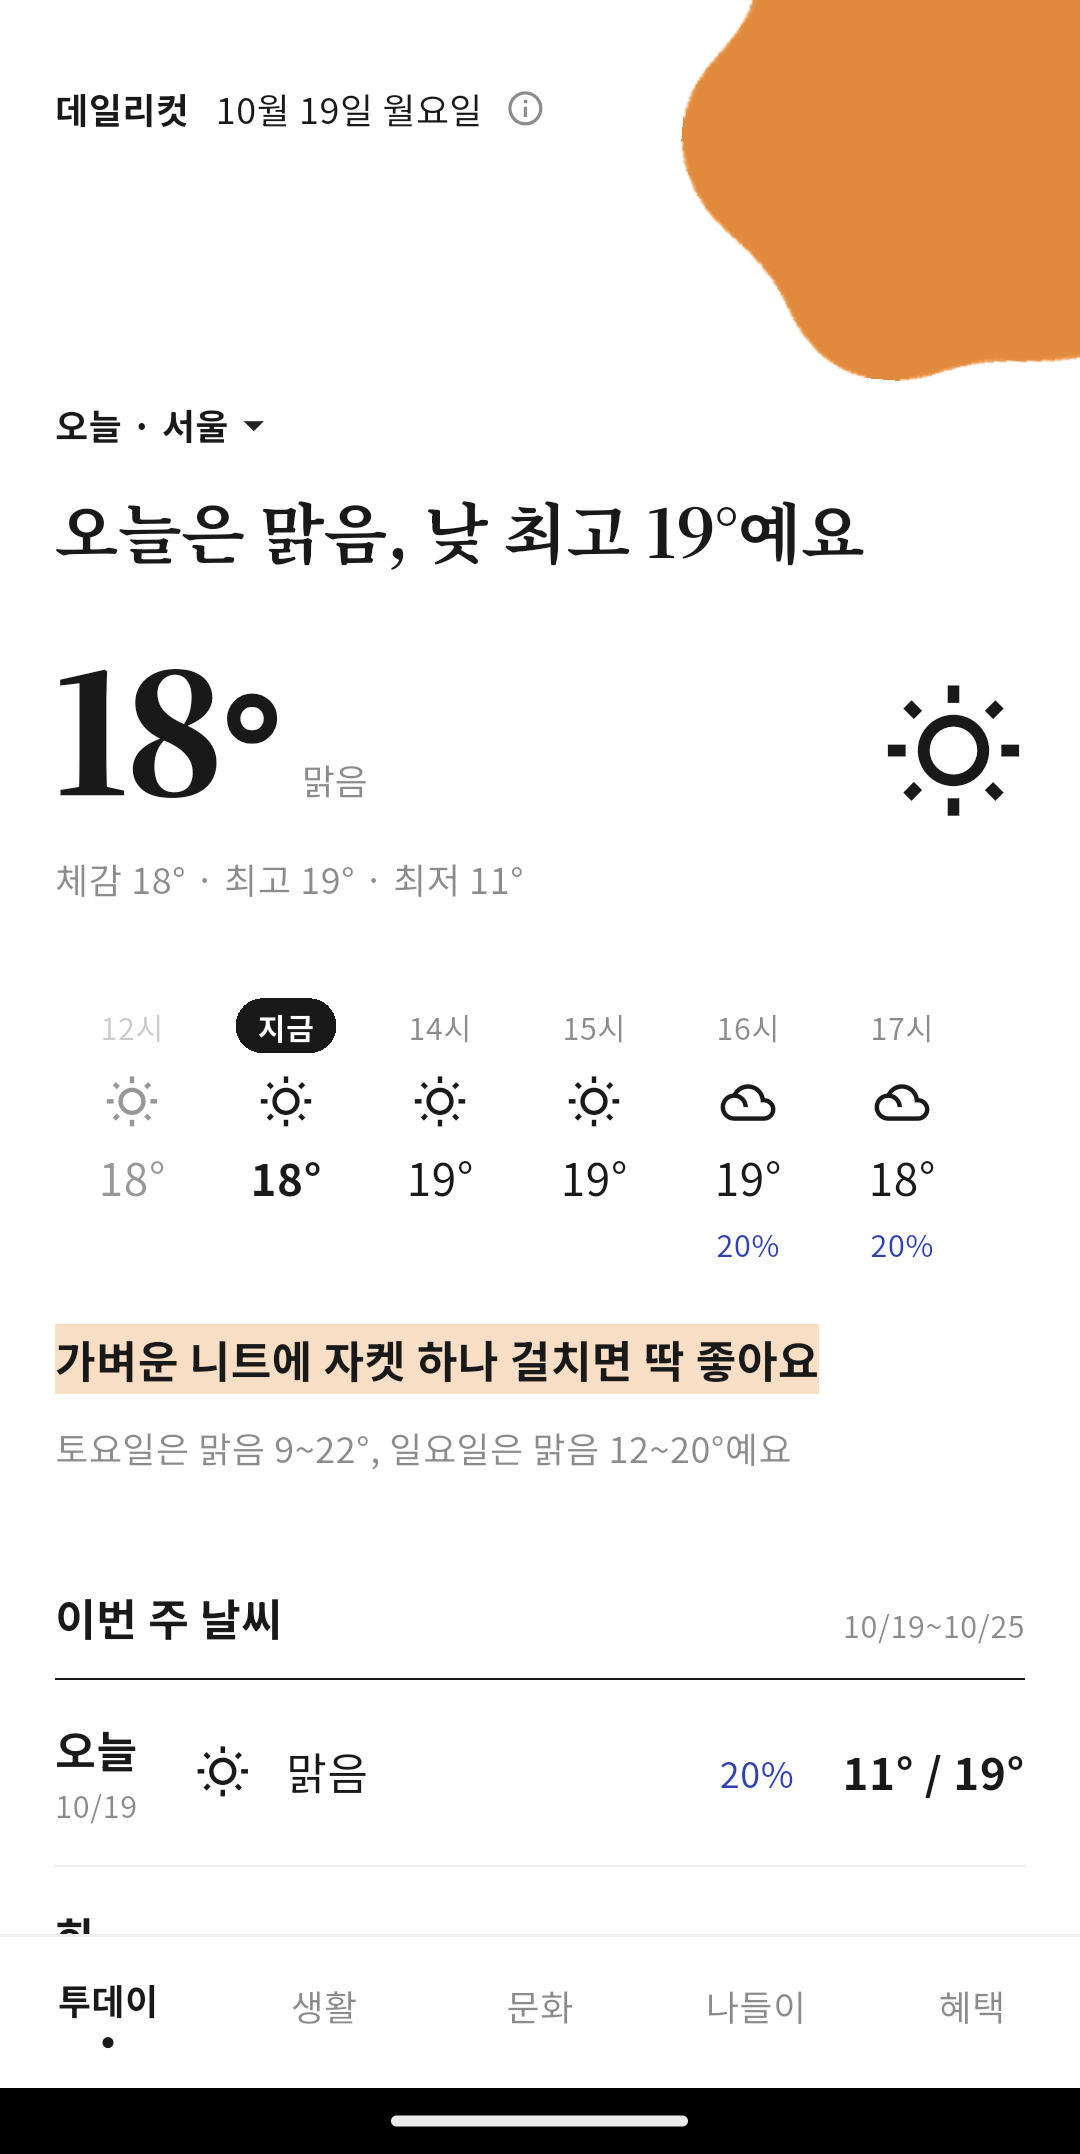
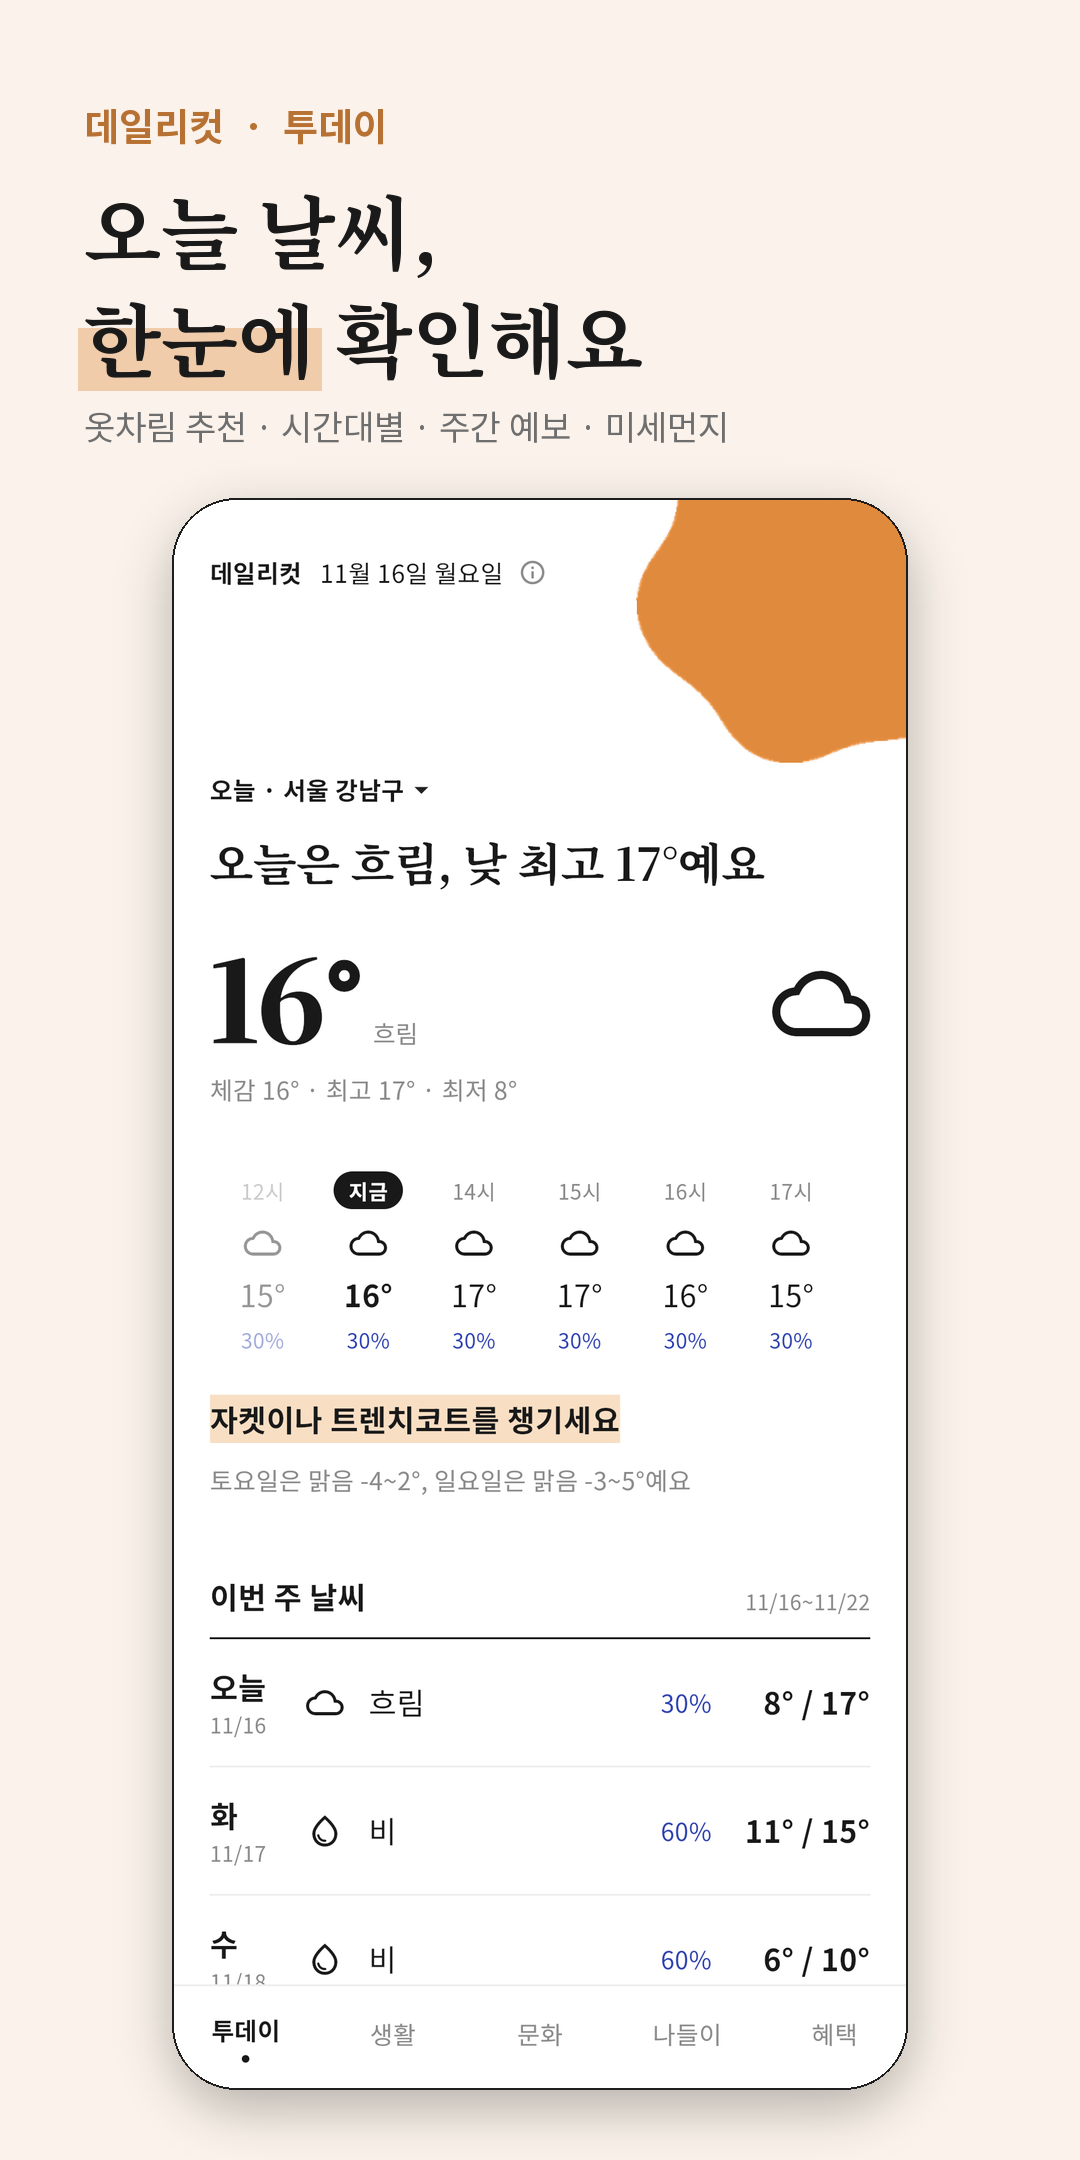
스토어 스크린샷 8장을 디자인 버전으로 교체(생성 코드 포함)

diff --git a/store/make_screenshots.py b/store/make_screenshots.py
@@ -1,0 +1,71 @@
+from PIL import Image, ImageDraw, ImageFont, ImageFilter
+import os, sys
+FONTS='C:/Projects/dailycut/app/assets/fonts/'
+SERIF=lambda s: ImageFont.truetype(FONTS+'NotoSerifKR-700-r2.ttf', s)
+SANS7=lambda s: ImageFont.truetype(FONTS+'NotoSansKR-700-r2.ttf', s)
+SANS4=lambda s: ImageFont.truetype(FONTS+'NotoSansKR-400-r2.ttf', s)
+W,H=1080,2160
+INK=(26,26,26); GRAY=(110,110,110)
+
+# (파일, 섹션 이름, 제목 줄들, 형광펜 칠할 낱말(줄 번호, 글자), 설명)
+SLIDES=[
+ ('1_today','투데이',['오늘 날씨,','한눈에 확인해요'],(1,'한눈에'),'옷차림 추천 · 시간대별 · 주간 예보 · 미세먼지'),
+ ('2_life','생활',['이번 주 장바구니,','얼마나 올랐을까?'],(1,'올랐을까'),'채소·과일·수산·정육 시세를 지난주와 비교'),
+ ('3_culture','문화',['우리 동네 이번 주','행사는 뭐가 있지?'],(0,'이번 주'),'축제 · 전시 · 공연을 달력으로 모아 봐요'),
+ ('4_outing','나들이',['이번 주말,','어디가 한산할까?'],(1,'한산할까'),'덜 붐비는 관광지 · 도서관 · 캠핑 · 반려동물 동반'),
+ ('5_museum','나들이',['가까운 박물관·미술관,','둘러볼까요?'],(0,'박물관·미술관'),'공립·사립 구분과 주소까지 한 번에'),
+ ('6_benefit','혜택',['받을 수 있는 혜택,','한 번에 찾아봐요'],(0,'혜택'),'정부 지원 · 청약 · 공공임대 · 내 조건으로 추리기'),
+ ('7_rent','혜택',['우리 동네 전월세,','요즘 얼마일까요?'],(0,'전월세'),'실거래가로 계산한 아파트·오피스텔 시세'),
+ ('8_localcur','혜택',['우리 동네 상품권,','어디서 쓸 수 있을까?'],(0,'상품권'),'지역사랑상품권 결제 현황과 쓸 수 있는 가게'),
+]
+RAW={'1_today':'raw_1_today.png','2_life':'raw_2_life.png','3_culture':'raw_3_culture.png','4_outing':'raw_4_outing.png',
+     '5_museum':'raw_8_museum.png','6_benefit':'raw_5_benefit.png','7_rent':'raw_6_rent.png','8_localcur':'raw_7_localcur.png'}
+
+def accent(img):
+    px=img.convert('RGB')
+    w,h=px.size
+    best=None
+    for (x,y) in [(int(w*.85),int(h*.02)),(int(w*.9),int(h*.04)),(int(w*.8),int(h*.05)),(int(w*.88),int(h*.06))]:
+        c=px.getpixel((x,y))
+        if sum(c)<690: best=c; break
+    return best or (224,137,60)
+
+def mix(c,t,a): return tuple(int(c[i]*(1-a)+t[i]*a) for i in range(3))
+
+os.makedirs('out',exist_ok=True)
+for name,label,lines,(hl_line,hl_word),sub in SLIDES:
+    shot=Image.open(RAW[name]).convert('RGB')
+    ac=accent(shot)
+    bg=mix(ac,(255,255,255),0.90)
+    can=Image.new('RGB',(W,H),bg)
+    d=ImageDraw.Draw(can,'RGBA')
+    # 섹션 이름(작게, 섹션 색)
+    f=SANS7(38)
+    d.text((84,96),'데일리컷  ·  '+label,font=f,fill=mix(ac,(0,0,0),0.18))
+    # 제목(세리프) + 형광펜
+    ft=SERIF(80); y=170
+    for i,ln in enumerate(lines):
+        if i==hl_line and hl_word in ln:
+            pre=ln[:ln.index(hl_word)]
+            x0=84+d.textlength(pre,font=ft); x1=x0+d.textlength(hl_word,font=ft)
+            d.rectangle([x0-6,y+50,x1+6,y+112],fill=ac+(95,))
+        d.text((84,y),ln,font=ft,fill=INK)
+        y+=108
+    d.text((84,y+14),sub,font=SANS4(34),fill=GRAY)
+    # 폰 화면: 둥근 모서리 + 얇은 테두리 + 부드러운 그림자
+    pw=736; ph=int(shot.height*pw/shot.width)
+    s=shot.resize((pw,ph),Image.LANCZOS)
+    top=H-ph-70
+    if top<470: # 너무 길면 아래를 잘라 맞춤
+        top=470; ph=H-top-70; s=s.crop((0,0,pw,ph))
+    px_=(W-pw)//2
+    shadow=Image.new('RGBA',(W,H),(0,0,0,0))
+    ImageDraw.Draw(shadow).rounded_rectangle([px_,top+18,px_+pw,top+ph+18],radius=70,fill=(0,0,0,70))
+    shadow=shadow.filter(ImageFilter.GaussianBlur(26))
+    can=Image.alpha_composite(can.convert('RGBA'),shadow)
+    mask=Image.new('L',(pw,ph),0)
+    ImageDraw.Draw(mask).rounded_rectangle([0,0,pw-1,ph-1],radius=64,fill=255)
+    can.paste(s,(px_,top),mask)
+    ImageDraw.Draw(can).rounded_rectangle([px_,top,px_+pw-1,top+ph-1],radius=64,outline=(30,30,30,60),width=2)
+    can.convert('RGB').save(f'out/{name}.png',optimize=True)
+    print(name,ac,os.path.getsize(f'out/{name}.png')//1024,'KB')

diff --git a/store/README.md b/store/README.md
@@ -13,3 +13,6 @@
 `bash app/tools/build_release.sh appbundle`        — 프로덕션용(실제 광고 ID, 버전 코드를 올릴 것)
 
 자세한 내용은 `docs/play-console.md`.
+
+## 2026-11-16 스크린샷 새 세트
+`screenshots/1~8_*.png`(1080x2160, 비율 2:1): 실제 웹 앱 화면(헤드리스 크롬, 390x844 @3x, 광고 없음)을 섹션 색 배경 + 세리프 제목 + 형광펜 + 둥근 폰 틀로 감쌈. 만드는 코드는 `store/make_screenshots.py`(원본 캡처 8장은 스크래치에 있어 재촬영 필요 — 웹 앱에서 지역 강남구, 지역화폐만 성북구로 찍음).
